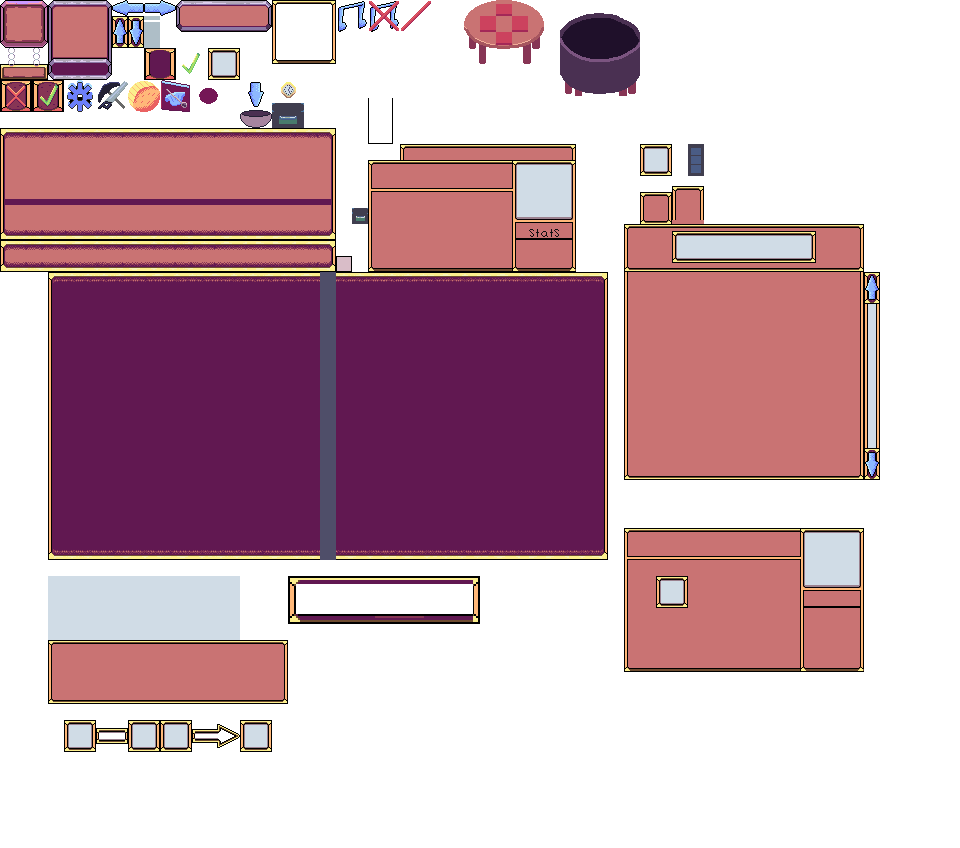
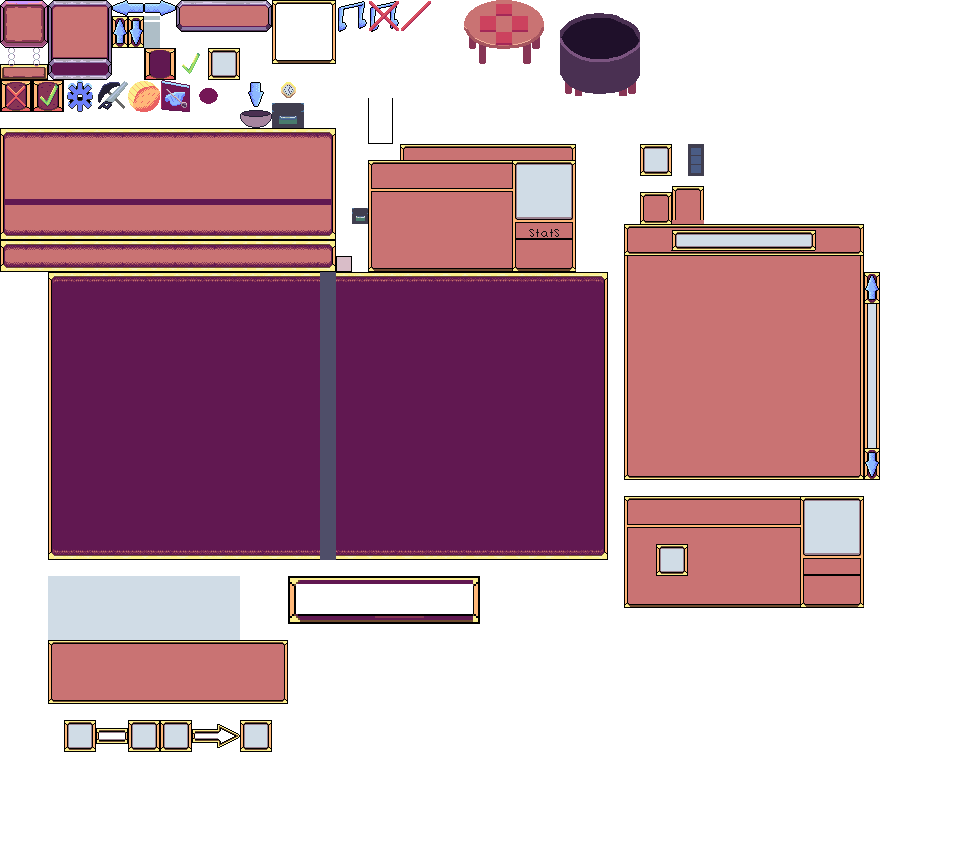
resizing escape menu

Changed region(s): [[0.625, 0.5825, 0.9062, 0.7972], [0.6562, 0.2453, 0.9062, 0.3373]]

diff --git a/UIEngine/Classes/CraftingMenuStuff/RecipeBox.cs b/UIEngine/Classes/CraftingMenuStuff/RecipeBox.cs
@@ -1,4 +1,7 @@
-using Microsoft.Xna.Framework;
+using Globals.Classes.Helpers;
+using Microsoft.Xna.Framework;
+using Microsoft.Xna.Framework.Content;
+using Microsoft.Xna.Framework.Graphics;
 using SpriteEngine.Classes;
 using System;
 using System.Collections.Generic;
@@ -9,9 +12,9 @@ using TextEngine.Classes;
 
 namespace UIEngine.Classes.CraftingMenuStuff
 {
-    internal class RecipeBox
+    internal class RecipeBox : MenuSection
     {
-        private static readonly Rectangle s_backGroundSourceRectangle = new Rectangle(368, 144, 208, 128);
+        private static readonly Rectangle s_backGroundSourceRectangle = new Rectangle(624, 496, 240, 112);
 
         private Sprite _backGroundSprite;
 
@@ -36,5 +39,45 @@ namespace UIEngine.Classes.CraftingMenuStuff
         //private RecipeStatsBox _recipeStatsBox;
         private Vector2 _recipeStatsBoxPositionOffSet = new Vector2(148, 79);
         private Vector2 _recipeStatsBoxPosition;
+
+        private Vector2 _scale = new Vector2(2f, 2f);
+
+        public RecipeBox(InterfaceSection interfaceSection, GraphicsDevice graphicsDevice, ContentManager content,
+            Vector2? position, float layerDepth) : base(interfaceSection, graphicsDevice, content, position, layerDepth)
+        {
+        }
+
+        public override void LoadContent()
+        {
+
+            ClearGrid();
+            ChildSections.Clear();
+            TotalBounds = parentSection.TotalBounds;
+
+            Position = RectangleHelper.PlaceRectangleAtBottomLeftOfParentRectangle(
+                TotalBounds, s_backGroundSourceRectangle);
+
+            _backGroundSprite = SpriteFactory.CreateUISprite(Position, s_backGroundSourceRectangle, 
+                UI.ButtonTexture, GetLayeringDepth(UILayeringDepths.Low), scale: _scale);
+            base.LoadContent();
+        }
+
+        public override void Update(GameTime gameTime)
+        {
+            base.Update(gameTime);
+            if (IsActive)
+            {
+                _backGroundSprite.Update(gameTime, Position);
+            }
+        }
+
+        public override void Draw(SpriteBatch spriteBatch)
+        {
+            base.Draw(spriteBatch);
+            if (IsActive)
+            {
+                _backGroundSprite.Draw(spriteBatch);
+            }
+        }
     }
 }

diff --git a/UIEngine/Classes/CraftingMenuStuff/CraftingMiniIcon.cs b/UIEngine/Classes/CraftingMenuStuff/CraftingMiniIcon.cs
@@ -20,6 +20,8 @@ namespace UIEngine.Classes.CraftingMenuStuff
         private Button _button;
 
         public ItemData ItemData { get; private set; }
+
+        private Vector2 _scale = new Vector2(1.5f, 1.5f);
         public CraftingMiniIcon(InterfaceSection interfaceSection, GraphicsDevice graphicsDevice,
             ContentManager content, Vector2? position, float layerDepth) : 
             base(interfaceSection, graphicsDevice, content, position, layerDepth)
@@ -36,13 +38,13 @@ namespace UIEngine.Classes.CraftingMenuStuff
 
             ChildSections.Clear();
             TotalBounds = new Rectangle((int)Position.X, (int)Position.Y,
-                _backGroundSourceRectangle.Width * 2, _backGroundSourceRectangle.Height * 2);
+                (int)((float)_backGroundSourceRectangle.Width * _scale.X), (int)((float)_backGroundSourceRectangle.Height * _scale.Y));
 
             Sprite itemSprite = SpriteFactory.CreateUISprite(Position, Item.GetItemSourceRectangle(ItemData.Id),
-                ItemFactory.ItemSpriteSheet, GetLayeringDepth(UILayeringDepths.Medium), scale: new Vector2(3f,3f));
+                ItemFactory.ItemSpriteSheet, GetLayeringDepth(UILayeringDepths.Medium), scale: new Vector2(2f,2f));
 
             _button = new Button(this, graphics, content, Position, GetLayeringDepth(UILayeringDepths.Low),
-                _backGroundSourceRectangle, foregroundSprite: itemSprite)
+                _backGroundSourceRectangle, foregroundSprite: itemSprite, scale: _scale.X)
             { ForeGroundSpriteOffSet = new Vector2(8, 8) };
             base.LoadContent();
         }

diff --git a/UIEngine/Classes/CraftingMenuStuff/CraftingPage.cs b/UIEngine/Classes/CraftingMenuStuff/CraftingPage.cs
@@ -19,7 +19,7 @@ namespace UIEngine.Classes.CraftingMenuStuff
 
 
         private readonly int s_columns = 5;
-        private Rectangle _backGroundSourceRectangle = new Rectangle(624, 272, 224, 128);
+        private Rectangle _backGroundSourceRectangle = new Rectangle(624, 256, 240, 224);
         private Sprite _backGroundSprite;
 
         private StackPanel _stackPanel;
@@ -42,10 +42,11 @@ namespace UIEngine.Classes.CraftingMenuStuff
 
             _backGroundSprite = SpriteFactory.CreateUISprite(Position, _backGroundSourceRectangle, UI.ButtonTexture,
                 GetLayeringDepth(UILayeringDepths.Low), scale:_scale);
-            TotalBounds = new Rectangle((int)Position.X, (int)Position.Y,
-                _backGroundSourceRectangle.Width, _backGroundSourceRectangle.Height);
-            FillPage();
+            TotalBounds = parentSection.TotalBounds;
            
+            FillPage();
+            _recipeBox = new RecipeBox(this, graphics, content, Position, GetLayeringDepth(UILayeringDepths.Low));
+            _recipeBox.LoadContent();
             base.LoadContent();
 
         }
@@ -60,7 +61,7 @@ namespace UIEngine.Classes.CraftingMenuStuff
             int index = 0;
             for (int i = 0; i < Selectables.GetLength(0); i++)
             {
-                StackRow stackRow = new StackRow((int)(s_columns * 32 * _scale.X));
+                StackRow stackRow = new StackRow((int)(s_columns * 32 * 2));
                 for (int j = 0; j < Selectables.GetLength(1); j++)
                 {
                     if (index >= dataList.Count )

diff --git a/UIEngine/Classes/EscMenuStuff/EscMenu.cs b/UIEngine/Classes/EscMenuStuff/EscMenu.cs
@@ -139,9 +139,11 @@ namespace UIEngine.Classes.EscMenuStuff
         {
             TransferSections.Clear();
             TotalBounds = new Rectangle((int)Position.X, (int)Position.Y, (int)(BackGroundSource.Width * _scale.X), (int)(BackGroundSource.Height * _scale.Y));
-            TitleOffSet = (int)(48 * _scale.Y);
+            TitleOffSet = (int)(32 * _scale.Y);
             _returnToMainMenuAction = new Action(ReturnToMainMenu);
             Vector2 escMenuPos = RectangleHelper.CenterRectangleOnScreen(TotalBounds);
+            escMenuPos = new Vector2(escMenuPos.X, escMenuPos.Y - 32);
+
             TotalBounds = new Rectangle((int)escMenuPos.X, (int)escMenuPos.Y, TotalBounds.Width, TotalBounds.Height);
             _backGroundSprite = SpriteFactory.CreateUISprite(escMenuPos, BackGroundSource,
                 UI.ButtonTexture, GetLayeringDepth(UILayeringDepths.Back), scale: _scale);

diff --git a/Globals/Classes/Helpers/RectangleHelper.cs b/Globals/Classes/Helpers/RectangleHelper.cs
@@ -128,10 +128,16 @@ namespace Globals.Classes.Helpers
         /// <summary>
         ///  <see cref="EscButton"/> 
         /// </summary>
-        public static Vector2 PlaceRectangleAtBottomLeftOfParentRectangle(Rectangle parentRectangle, Rectangle rectangleToPlace)
+        public static Vector2 PlaceRectangleAtBottomLeftOfParentRectangle(
+            Rectangle parentRectangle, Rectangle rectangleToPlace, Vector2? childScale = null)
         {
-            return new Vector2(parentRectangle.X ,
+            if (childScale == null)
+            {
+                return new Vector2(parentRectangle.X,
                 parentRectangle.Y + parentRectangle.Height - rectangleToPlace.Height * 2);
+            }
+            return new Vector2(parentRectangle.X,
+            parentRectangle.Y + parentRectangle.Height - rectangleToPlace.Height * 2 * childScale.Value.Y);
         }
 
 
